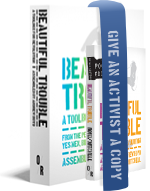
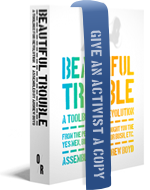
Change available gift editions

diff --git a/wp-content/themes/beautifultrouble/sidebar-promo.php b/wp-content/themes/beautifultrouble/sidebar-promo.php
@@ -7,9 +7,9 @@
                                     Published by <b>OR Books</b>. Order your copy today:
                                     </p>
 <ul class="nav nav-tabs" id="editions">
-  <li><a href="#full" data-toggle="tab"><br />Full<br />Edition</a></li>
-  <li><a href="#pocket" data-toggle="tab"><br />Pocket<br />Edition</a></li>
-  <li class="active" ><a href="#donate" data-toggle="tab">Give an<br />activist<br /><em>Trouble</em></a></li>
+  <li><a href="#full" data-toggle="tab">Full<br />Edition</a></li>
+  <li><a href="#pocket" data-toggle="tab">Pocket<br />Edition</a></li>
+  <li class="active" ><a href="#donate" data-toggle="tab">Gift<br />Edition</a></li>
 </ul>
 <div class="tab-content">
   <div class="tab-pane" id="full">
@@ -25,10 +25,9 @@
     <a class="img" href="http://store-93fb1.mybigcommerce.com/cart.php?action=add&product_id=447"><img src="http://orbooks.com/wp-content/themes/orbooks/media/image/add_button.gif" /></a><span class="price">$18<br />both</span>
   </div>
   <div class="tab-pane active" id="donate">
-    <img class="alignleft" src="/wp-content/themes/beautifultrouble/img/Beautiful_Trouble_Book_Donate.png" width="150" height="191" />
+    <img class="alignleft" src="/wp-content/themes/beautifultrouble/img/Beautiful_Trouble_Book_Donate.png" width="150" height="190" />
     <span class="promo-copy">Help us get <em>Beautiful Trouble</em> into the hands that need it most! Purchase a gift copy of the book and we'll donate it to a deserving revolutionary on a tight budget.<br /><br /></span>
-    <a class="img" href="http://store-93fb1.mybigcommerce.com/cart.php?action=add&product_id=648"><img src="http://orbooks.com/wp-content/themes/orbooks/media/image/add_button.gif" /></a><span class="price">give $25<br />full edition</span><br />
-    <a class="img" href="http://store-93fb1.mybigcommerce.com/cart.php?action=add&product_id=651"><img src="http://orbooks.com/wp-content/themes/orbooks/media/image/add_button.gif" /></a><span class="price">give $13<br />pocket edition</span>
+    <a class="img" href="http://store-93fb1.mybigcommerce.com/cart.php?action=add&product_id=648"><img src="http://orbooks.com/wp-content/themes/orbooks/media/image/add_button.gif" /></a><span class="price">$25<br />gift edition</span>
   </div>
 </div>
     <p><i class="highlight">Not sure yet? <b><a href="/the-book">Find out more about the books!</a></b></i></p>
